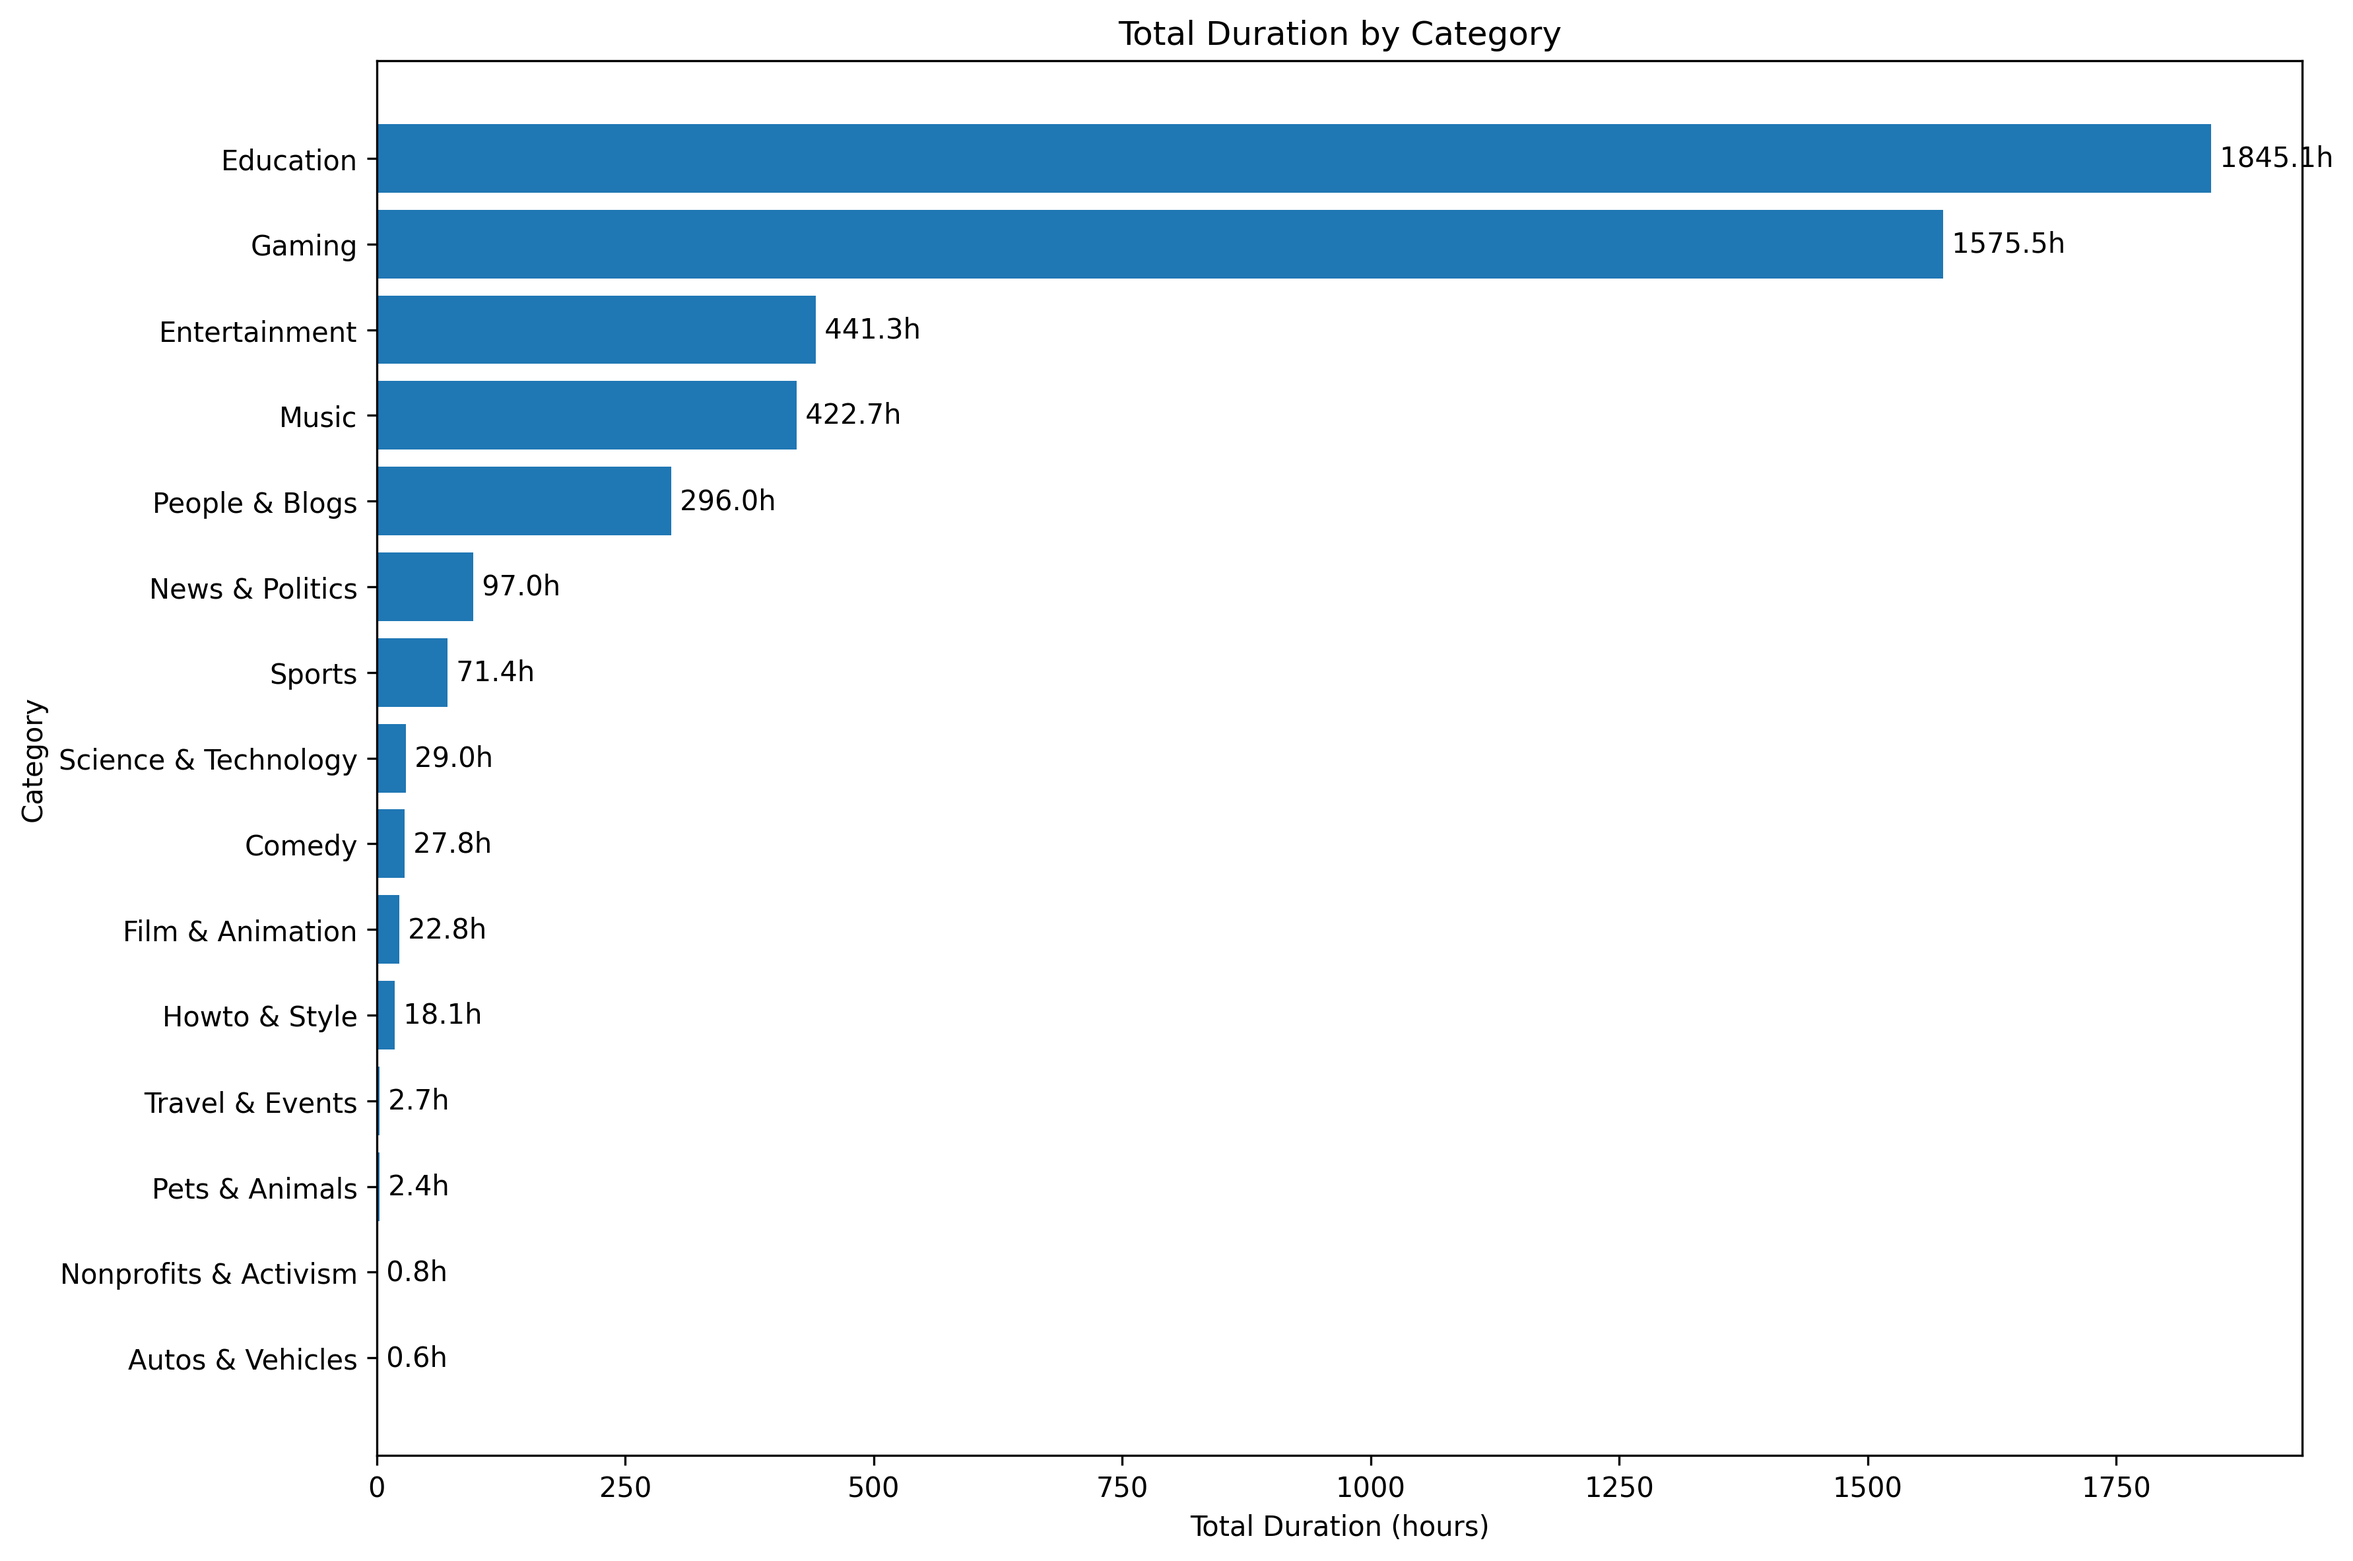
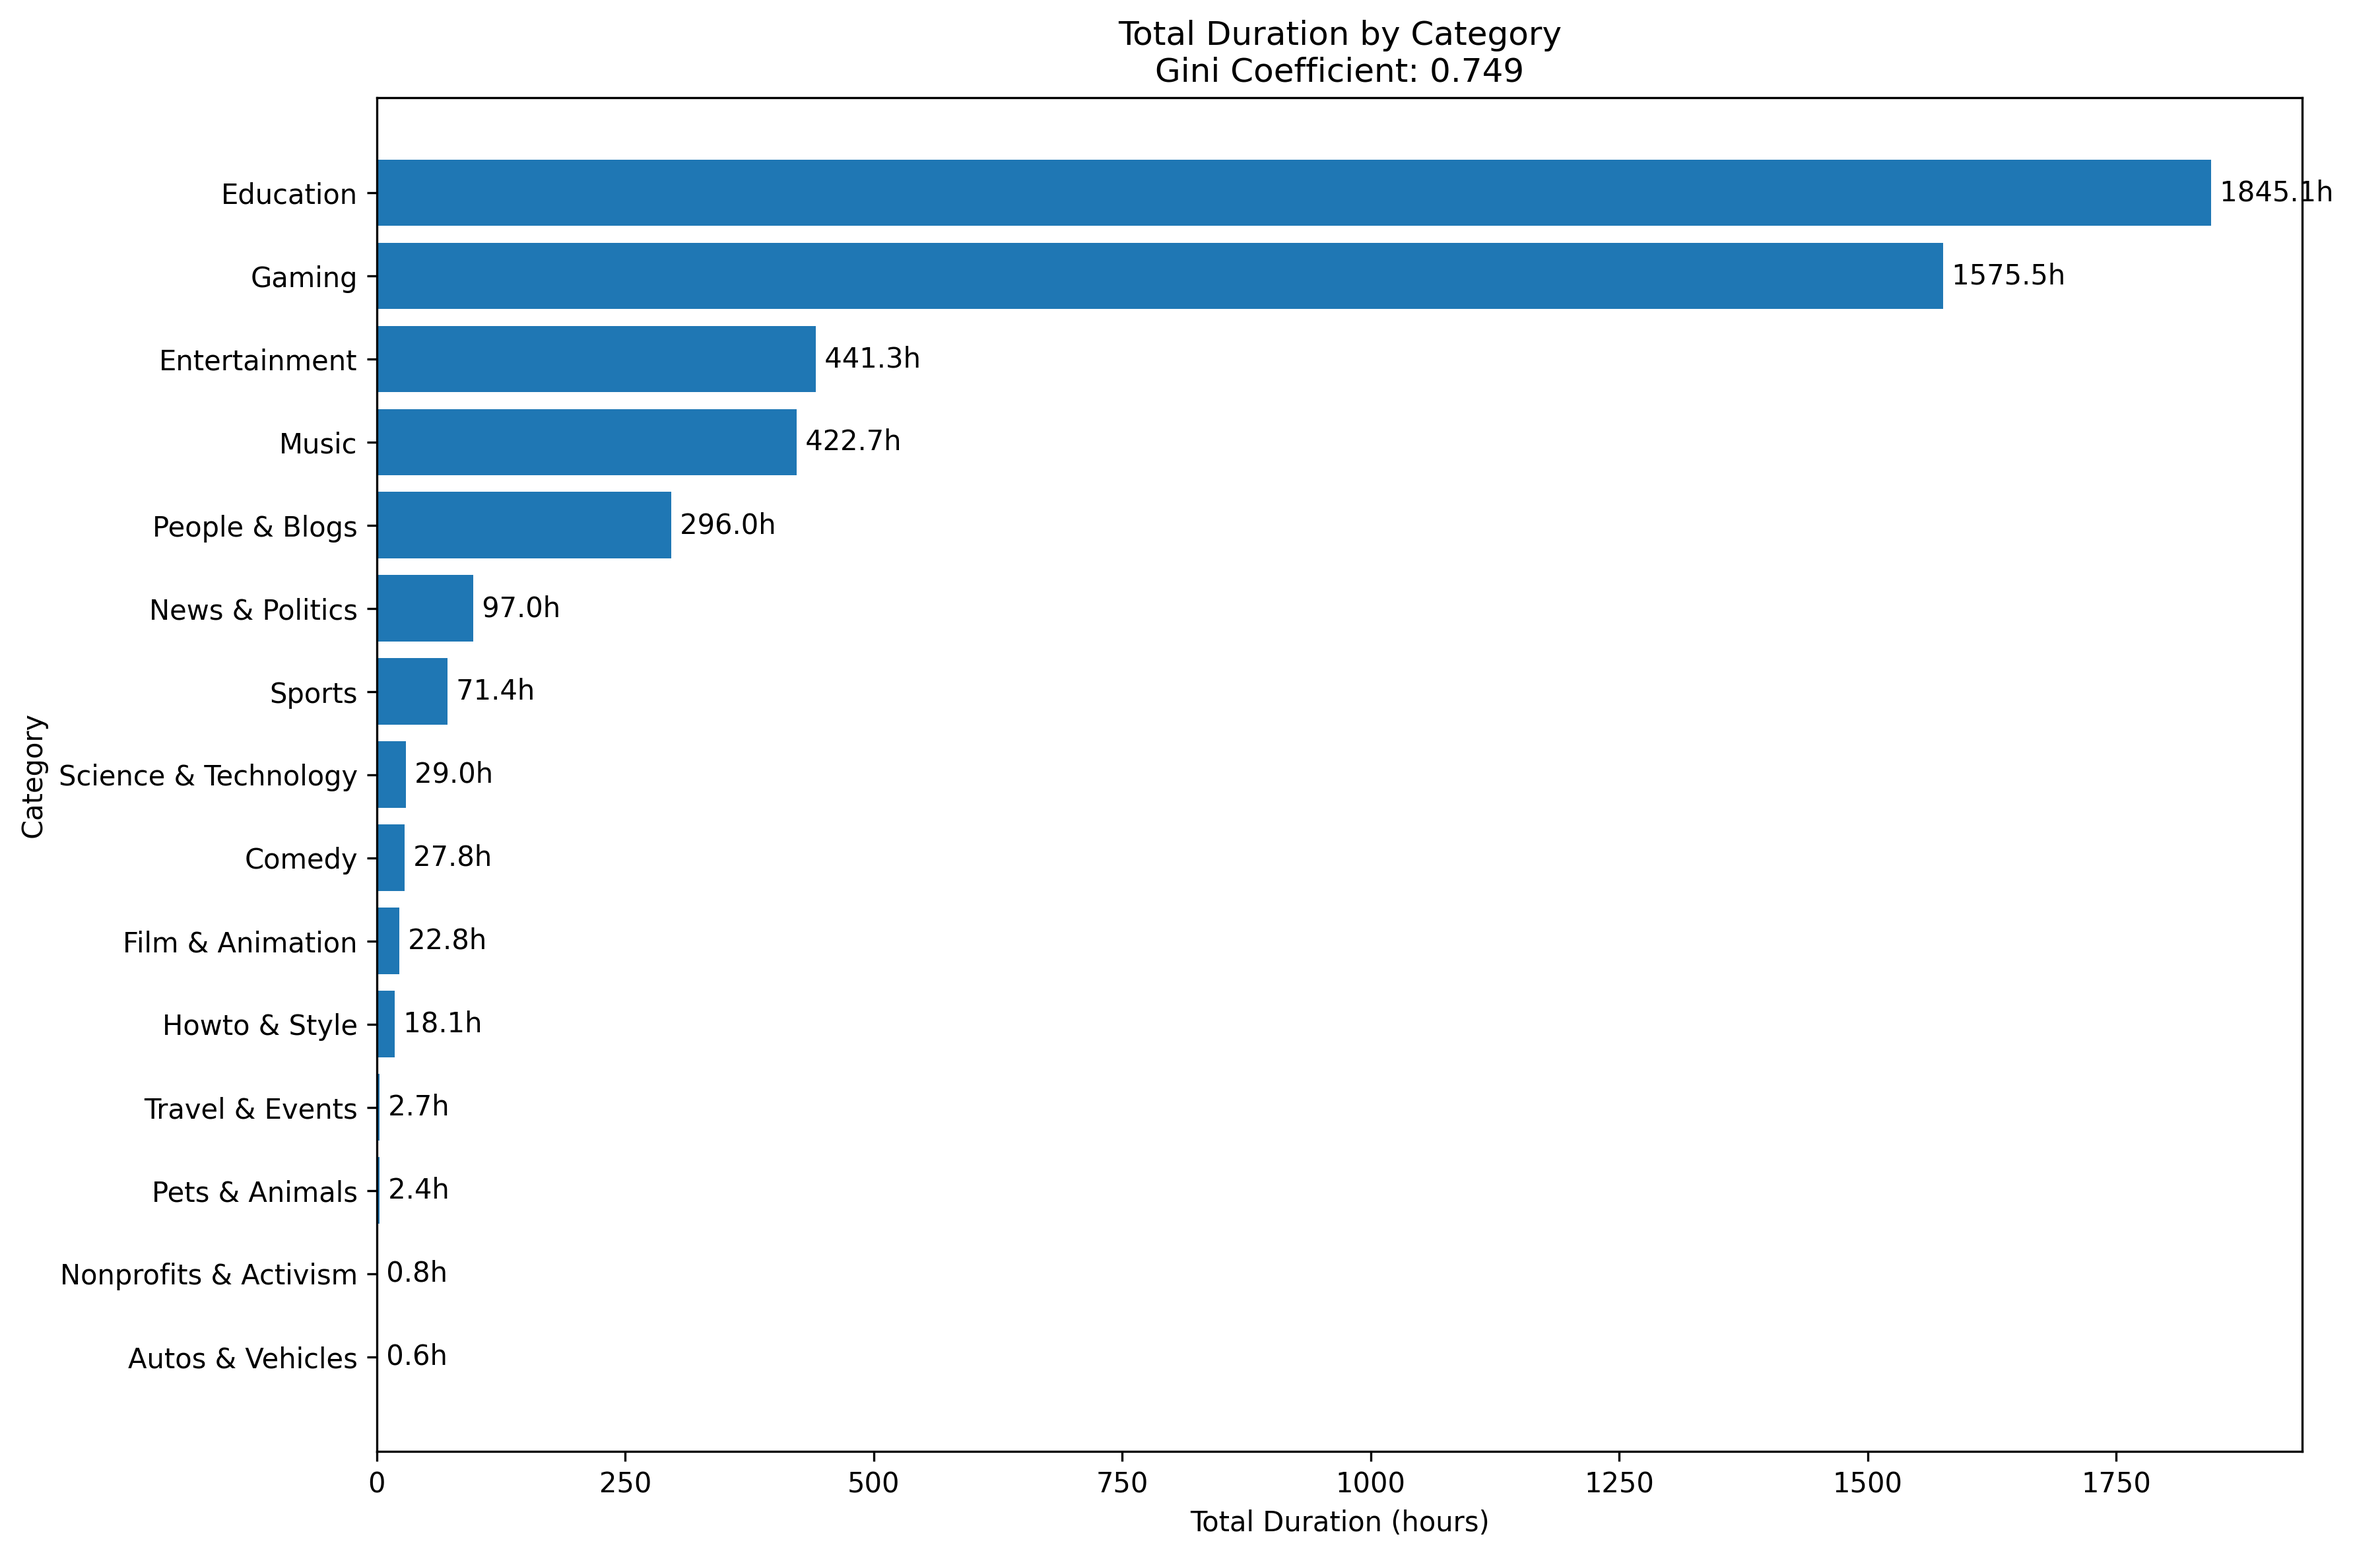
Added additional calculations for better analysis

diff --git a/categories_analysis.py b/categories_analysis.py
@@ -1,10 +1,21 @@
 import pandas as pd
 import matplotlib.pyplot as plt
+import numpy as np
 import os
 from datetime import datetime
 
 # Create 'results' directory if it doesn't exist
 os.makedirs('results', exist_ok=True)
+
+def calculate_gini(x):
+    """Calculate the Gini coefficient of a numpy array."""
+    # Sort array
+    sorted_array = np.sort(x)
+    n = len(x)
+    # Calculate cumulative sum
+    cumsum = np.cumsum(sorted_array)
+    # Calculate Gini coefficient
+    return ((n + 1) / n) - (2 / (n * np.mean(x) * n)) * np.sum((n + 1 - np.arange(1, n + 1)) * sorted_array)
 
 # Read the CSV file
 df = pd.read_csv('data/temporal_patterns.csv')
@@ -16,6 +27,9 @@ df['month'] = pd.to_datetime(df['month'], format='%Y-%m')
 def plot_top_categories():
     category_totals = df.groupby('category')['duration'].sum().sort_values(ascending=True)
     
+    # Calculate Gini coefficient
+    gini = calculate_gini(category_totals.values)
+    
     plt.figure(figsize=(12, 8))
     bars = plt.barh(range(len(category_totals)), category_totals.values)
     plt.yticks(range(len(category_totals)), category_totals.index)
@@ -24,21 +38,26 @@ def plot_top_categories():
     for i, v in enumerate(category_totals.values):
         plt.text(v, i, f' {v:.1f}h', va='center')
     
-    plt.title('Total Duration by Category')
+    plt.title(f'Total Duration by Category\nGini Coefficient: {gini:.3f}')
     plt.xlabel('Total Duration (hours)')
     plt.ylabel('Category')
     plt.tight_layout()
     plt.savefig('results/category_totals.png', dpi=300, bbox_inches='tight')
     plt.close()
+    
+    return category_totals, gini
 
 # 2. Generate Summary Statistics
-def generate_summary():
+def generate_summary(category_totals, gini):
     summary = {
         'total_duration': df['duration'].sum(),
         'avg_monthly_duration': df.groupby('month')['duration'].sum().mean(),
         'peak_month': df.groupby('month')['duration'].sum().idxmax(),
         'top_category': df.groupby('category')['duration'].sum().idxmax(),
-        'unique_categories': df['category'].nunique()
+        'unique_categories': df['category'].nunique(),
+        'gini_coefficient': gini,
+        'top_20_percent_share': (np.sum(np.sort(category_totals.values)[-int(len(category_totals)*0.2):]) / 
+                                np.sum(category_totals.values) * 100)
     }
     
     # Save summary to text file
@@ -50,15 +69,17 @@ def generate_summary():
         f.write(f"Peak Month: {summary['peak_month'].strftime('%Y-%m')}\n")
         f.write(f"Top Category: {summary['top_category']}\n")
         f.write(f"Number of Unique Categories: {summary['unique_categories']}\n")
+        f.write(f"Gini Coefficient: {summary['gini_coefficient']:.3f}\n")
+        f.write(f"Top 20% Categories Share: {summary['top_20_percent_share']:.1f}%\n")
 
 def main():
     print("Starting category analysis...")
     
-    # Generate visualization
-    plot_top_categories()
-    print("Top categories visualization completed")
+    # Generate visualization and get category totals and Gini coefficient
+    category_totals, gini = plot_top_categories()
+    print(f"Top categories visualization completed (Gini coefficient: {gini:.3f})")
     
-    generate_summary()
+    generate_summary(category_totals, gini)
     print("Summary statistics generated")
     
     print("Analysis complete! All results saved in the 'results' folder.")
